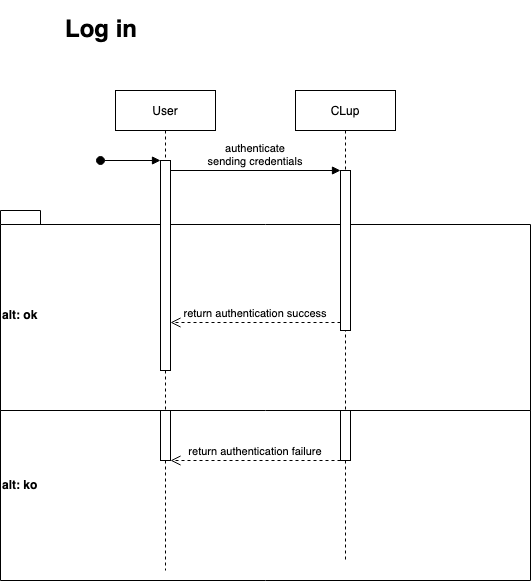
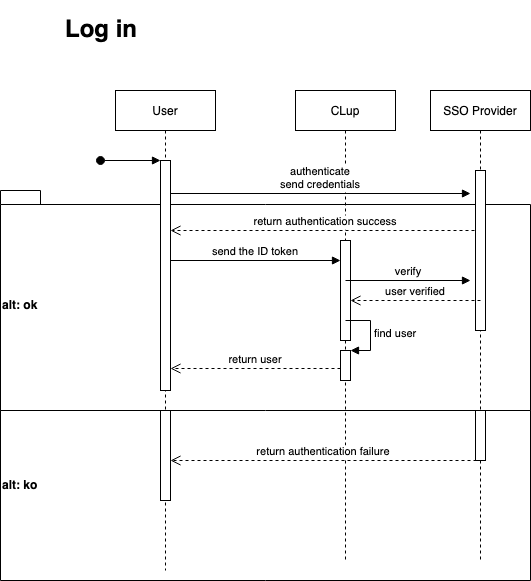
Update the document for SSO, except the login view

diff --git a/RASD/Files/requirements.tex b/RASD/Files/requirements.tex
@@ -188,14 +188,17 @@ Since the application will be browser based, the device should have an active in
         \textit{Actors} & Customer \\ \hline
         \textit{Entry conditions} & The customer opened the application, and they are not registered yet, and they want to register. \\ \hline
         \textit{Event flows}      & \tabitem The customer clicks on the "Sign Up" button. \\
-        & \tabitem The customer inserts their credentials. \\
+        & \tabitem The customer provides their authentication info to the SSO Provider. \\
+        & \tabitem The SSO Provider returns an ID Token to the user, if the user authentication was successful \\
+        & \tabitem The application sends the ID Token to the server, which in turn returns the Sign Up form. \\
         & \tabitem The application sends the information to the server. \\
         & \tabitem The server stores the data related to the user. \\
-        & \tabitem The server returns an acknowledgment to the app. \\
+        & \tabitem The server returns the created user to the app. \\
         \hline
         \textit{Exit conditions} & The customer is now registered and can use all the functionalities of the app. \\ \hline
         \textit{Exceptions} & \tabitem The e-mail provided in the registration form is already used by another user. \\
-        & \tabitem The credentials provided in the registration form are ill-formatted.\\
+        & \tabitem The SSO provider fails to authenticate the user. \\
+        & \tabitem Information provided in the registration form by the user is ill-formatted.\\
         \hline
     \end{tabular}
     \caption{Use Case: Sign up}
@@ -212,11 +215,13 @@ Since the application will be browser based, the device should have an active in
         \textit{Actors} & User \\ \hline
         \textit{Entry conditions} & The user has already signed up and wants to login to use CLup functionalities \\ \hline
         \textit{Event flows}     & \tabitem The customer clicks on the "Login" button\\
-        & \tabitem The user provides their login credentials. \\
-        & \tabitem The system authenticates the user \\
+        & \tabitem The user logs in to the external SSO provider. \\
+        & \tabitem Upon success, the SSO provider returns the user an ID Token. \\
+        & \tabitem The client forwards the ID Token to the server, which verifies the user through the SSO provider \\
+        & \tabitem The system finds and authenticates the user after the login is complete. \\
         \hline
-        \textit{Exit conditions} & The user is logged in and can now use all the CLup functionalities \\ \hline
-        \textit{Exceptions} & \tabitem The credentials are wrong \\
+        \textit{Exit conditions} & The user is logged in and can now use all the CLup functionalities. \\ \hline
+        \textit{Exceptions} & \tabitem The SSO Provider fails to authenticate the user.\\
         \hline
     \end{tabular}
     \caption{Use Case: Login}
@@ -491,8 +496,8 @@ Since the application will be browser based, the device should have an active in
 
 \subsubsection{Requirements}
 \begin{itemize}
-    \item \textbf{$R_{1}$} The system must allow users to authenticate using their e-mail address and password.
-    \item \textbf{$R_{2}$} The system must allow customers to register using their e-mail address, their name, surname, phone number, and a new password.
+    \item \textbf{$R_{1}$} The system must allow users to authenticate using an external SSO provider.
+    \item \textbf{$R_{2}$} The system must allow customers to register using their e-mail address, name, surname, and phone number after authenticating through SSO.
     \item \textbf{$R_{3}$} Managers must be able to add additional managers and clerks as users.
     \item \textbf{$R_{4}$} Managers must be able to set and update location-specific information, that is, the maximum number of customers in the location at any given time, opening and closing hours of the store per each day, line number timeout, the limit of reservation per customer on a predetermined time interval that is one of the month, week or day, and location of the place % One form
     \item \textbf{$R_{5}$} Managers can add any other location as a partner store.
@@ -509,7 +514,7 @@ Since the application will be browser based, the device should have an active in
     \item \textbf{$R_{16}$} Customers must be able to obtain line numbers for different time slots in the future.
     \item \textbf{$R_{17}$} Customers can not obtain line numbers for time intervals that the system is stopped by a manager.
     \item \textbf{$R_{18}$} Customers must be able to see the estimated time available for their line number.
-    \item \textbf{$R_{19}$} Customers must be able to set or update their phone number, password, name, and surname.
+    \item \textbf{$R_{19}$} Customers must be able to set or update their phone number, name, and surname.
     \item \textbf{$R_{20}$} Customers can select a specific product categories they plan to visit in the location while obtaining a line number.
     \item \textbf{$R_{21}$} Customers can set an estimated time for their visit while obtaining a line number.
     \item \textbf{$R_{22}$} Customers must be able to view the shop location
@@ -665,7 +670,7 @@ In case of upgrade or maintenance, the maintenance window will be out of busines
 
 System integrity or security should be sufficient to prevent unauthorized access to application functions, preventing information loss, ensure that the application is protected from virus infection, and protecting the privacy of data entered into the system.
 All user data must be encrypted before being stored.
-Furthermore, all passwords must be hashed.
+The user id must be verified between the server and SSO provider, before giving a user authorization.
 
 \subsubsection{Maintainability}
 % Testing practices on all levels

diff --git a/RASD/Files/overview.tex b/RASD/Files/overview.tex
@@ -19,8 +19,8 @@ The \nameref{fig:ClassDiagram} provided above illustrates the system's core high
 
 
 The system is designed to be used by different types of users, the \textbf{Customer}s whom visit or plan to visit the \textbf{Store}, the \textbf{Manager}s who are responsible for handling management related tasks like providing store details, handling system stops, and the \textbf{Clerk}s who are on active duty for monitoring the entrance and exit of customers.
-All users on the system are identified with their \textit{e-mail}s and require their \textit{password}s to authenticate.
-The \textbf{Customer}s need to register to the system with their \textit{name}, \textit{surname} and \textit{phoneNumber}, in addition to the information required for authentication.
+All users on the system are identified with their \textit{e-mail}s and require SSO to authenticate, which is handled by the external SSO provider.
+The \textbf{Customer}s need to register to the system with their \textit{name}, \textit{surname}, \textit{email} and \textit{phoneNumber}, in addition to the information provided for the SSO.
 All \textbf{Line Number}s feature a unique \textit{id} and an actual \textit{number} that indicate their order in line.
 Customers can have many \textbf{Booked Line Number}s, limited by the \textit{reservationLimit}, from various stores, which provide many \textbf{Time Slot}s that the customers can select from under \textit{availableTimeSlots}, which then becomes the time slot the booking is \textit{on}.
 The line number is to be invalidated after \textit{timeoutMinutes} from its target time interval.
@@ -241,7 +241,7 @@ The manager is in charge of managing a particular store through the CLup applica
 \subsubsection{Domain Assumptions}
 
 \begin{itemize}
-    \item \textbf{$D_1$} \%80 of the customers and all clerks and managers have basic ICT skills, has an e-mail address that they are willing to use to authenticate to the system, and has a smartphone or equivalent device that can connect to the Internet, have a browser that supports UTF-8, display QR codes and has a mapping application.
+    \item \textbf{$D_1$} \%80 of the customers and all clerks and managers have basic ICT skills, has a user created on the SSO provider platform, and has a smartphone or equivalent device that can connect to the Internet, have a browser that supports UTF-8, display QR codes and has a mapping application.
     \item \textbf{$D_2$} Clerks' mobile devices are equipped with at least one camera that the system can use.
     \item \textbf{$D_3$} All users have a basic understanding of how the line numbering system works and respects the system's ordering.
     \item \textbf{$D_4$} Managers have an estimate for the number of reservations that their location can at most have.
@@ -260,6 +260,7 @@ The manager is in charge of managing a particular store through the CLup applica
 
 The application will be running on a server provided by the hosting provider.
 The application will be dependant on Maps API, of which the details will be determined later in the Design Document.
+The application will be dependant on an SSO provider, which will be detailed in the Design Document.
 
 \subsubsection{Constraints}
 % Maps API failure

diff --git a/RASD/Files/introduction.tex b/RASD/Files/introduction.tex
@@ -166,7 +166,9 @@ Since the entities that solely exist in the world and solely in the system won't
     \item \textit{Product}: Any item, items, service or services demanded by the customer, and provided by the store to the customer.
     \item \textit{In-store Location}: A location of a specific product category inside the store.
     \item \textit{Working hours}: The time intervals that the store is open during each day.
-    \item \textit{Maps API}: A third-party mapping service implementation used for location tracking
+    \item \textit{Maps API}: A third-party mapping service implementation used for location tracking.
+    \item \textit{SSO Provider}: A third-party service providing SSO authentication.
+    \item \textit{ID Token}: A token provided by the SSO provider to verify the user's identity from the server.
 \end{itemize}
 \subsubsection{Acronyms}
 \begin{itemize}
@@ -174,6 +176,7 @@ Since the entities that solely exist in the world and solely in the system won't
     \item \textbf{QR Code}: Quick Response Code
     \item \textbf{API}: Application Programming Interface
     \item \textbf{ETA}: Estimated Time of Arrival
+    \item \textbf{SSO}: Single Sign-On
 \end{itemize}
 \subsubsection{Abbreviations}
 \begin{itemize}
